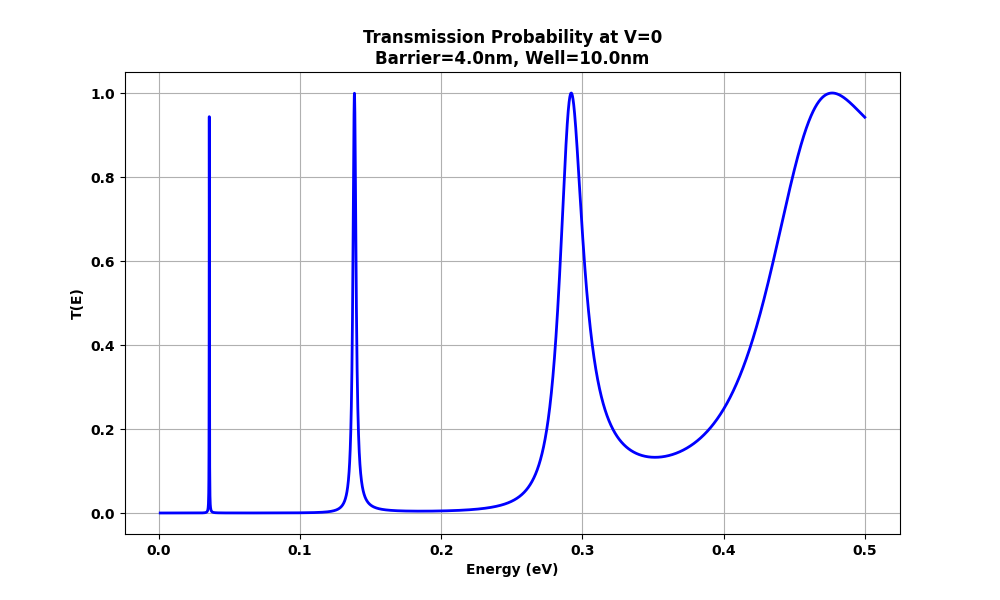
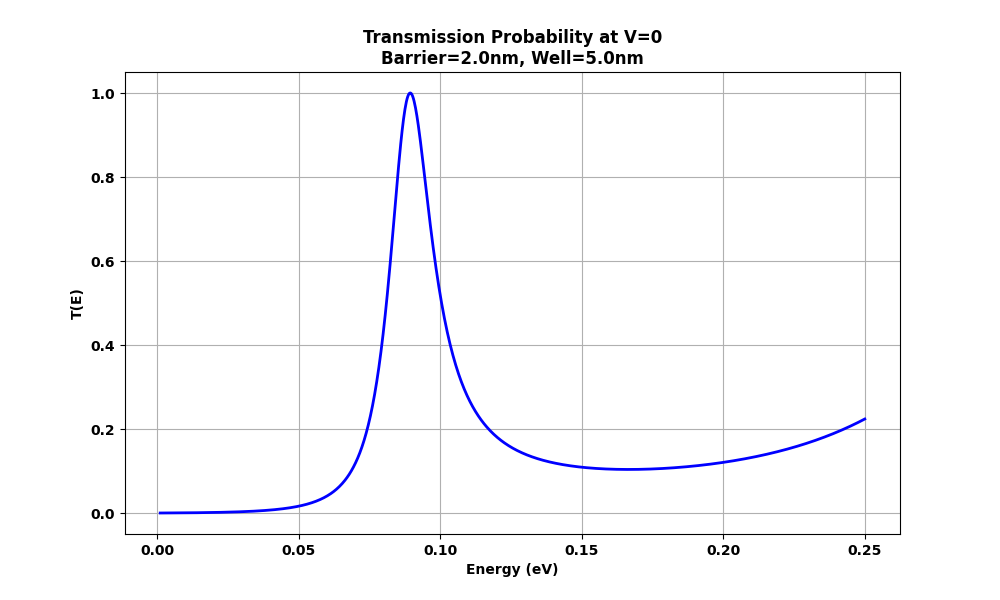
update_ssst_hw3

diff --git a/SSST/HW3_RTD_simulation/RTD_simulation.py b/SSST/HW3_RTD_simulation/RTD_simulation.py
@@ -19,8 +19,8 @@ T = 298                 # Temperature (K)
 Area = 1e-12            # Cross-sectional area (m^2)
 
 # Geometry parameters
-W_barrier = 4e-9        # 4 nm
-W_well = 10e-9          # 10 nm
+W_barrier = 2e-9        # 2 nm
+W_well = 5e-9           # 5 nm
 V0 = 0.3                # Barrier height/Potential offset (eV)
 Ef = 0.005               # Fermi energy (eV)
 
@@ -171,8 +171,8 @@ def simulate_multibarrier(num_barriers, W_b=4e-9, W_w=10e-9, V_height=0.3):
 # -----------------------------------------------------------------------------
 
 # Energy Grid
-E_max = 0.5 # eV (Up to barrier height + bit more)
-E_steps = 5000
+E_max = 0.25 # eV (Up to barrier height + bit more)
+E_steps = 1000
 Energies = np.linspace(0.001, E_max, E_steps) 
 
 # Plotting T(E) for V=0 first (no bias)
